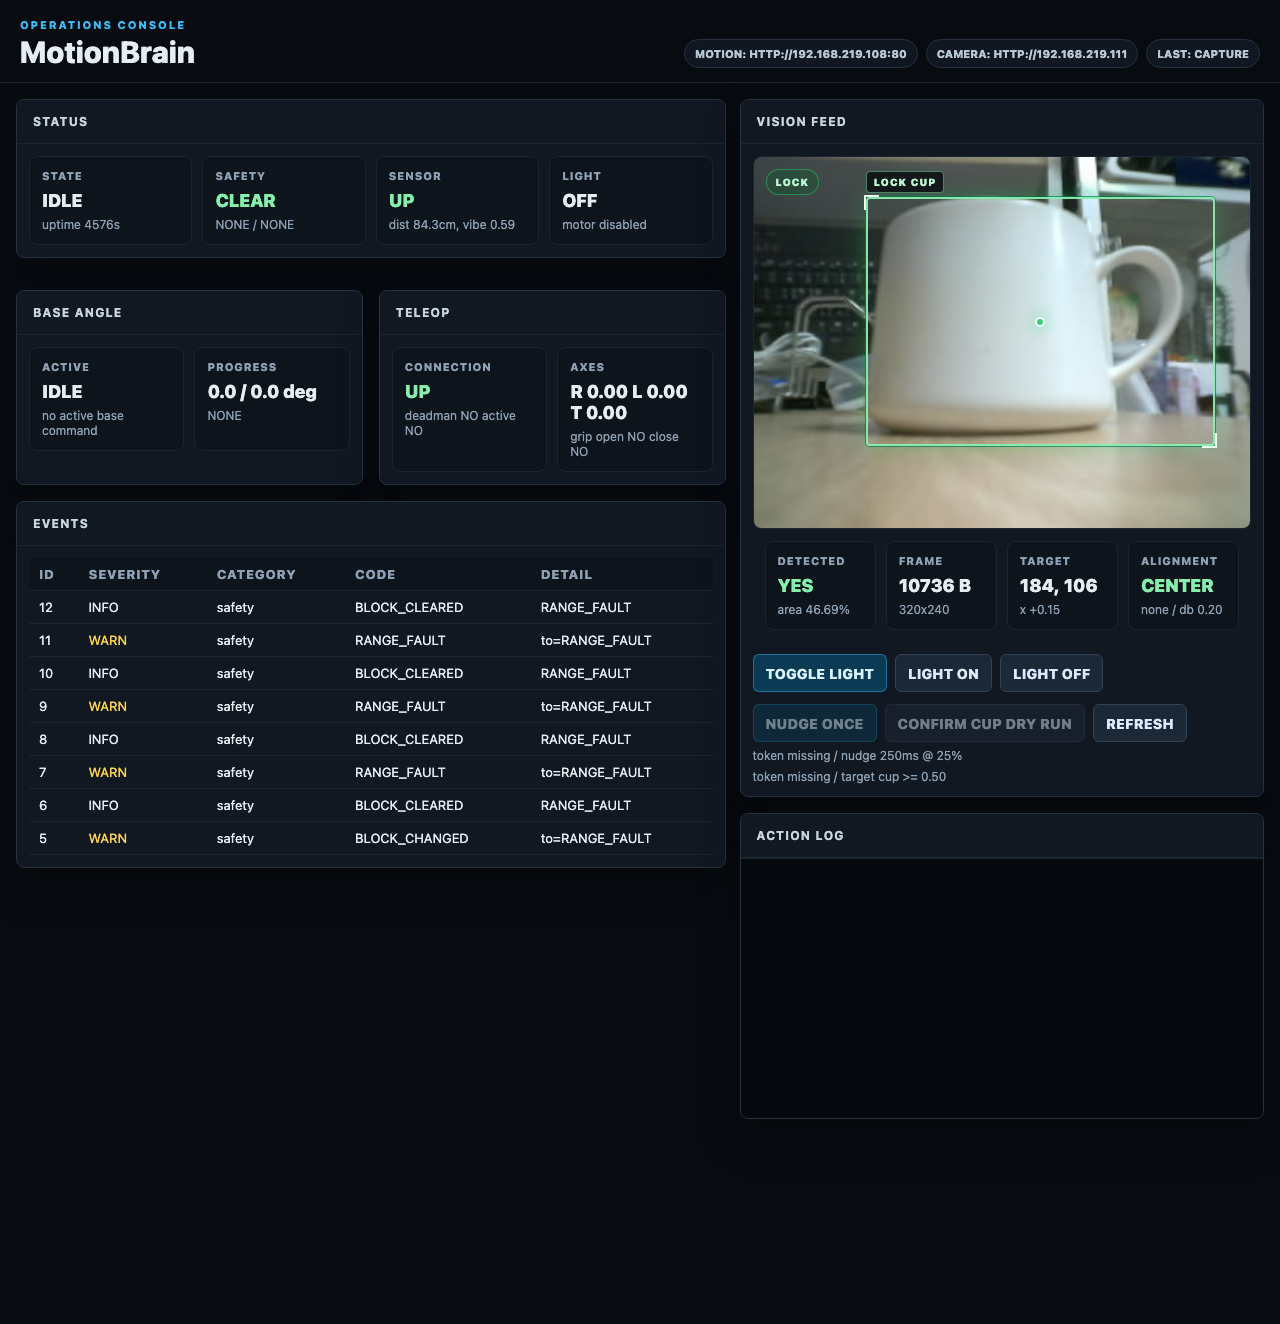
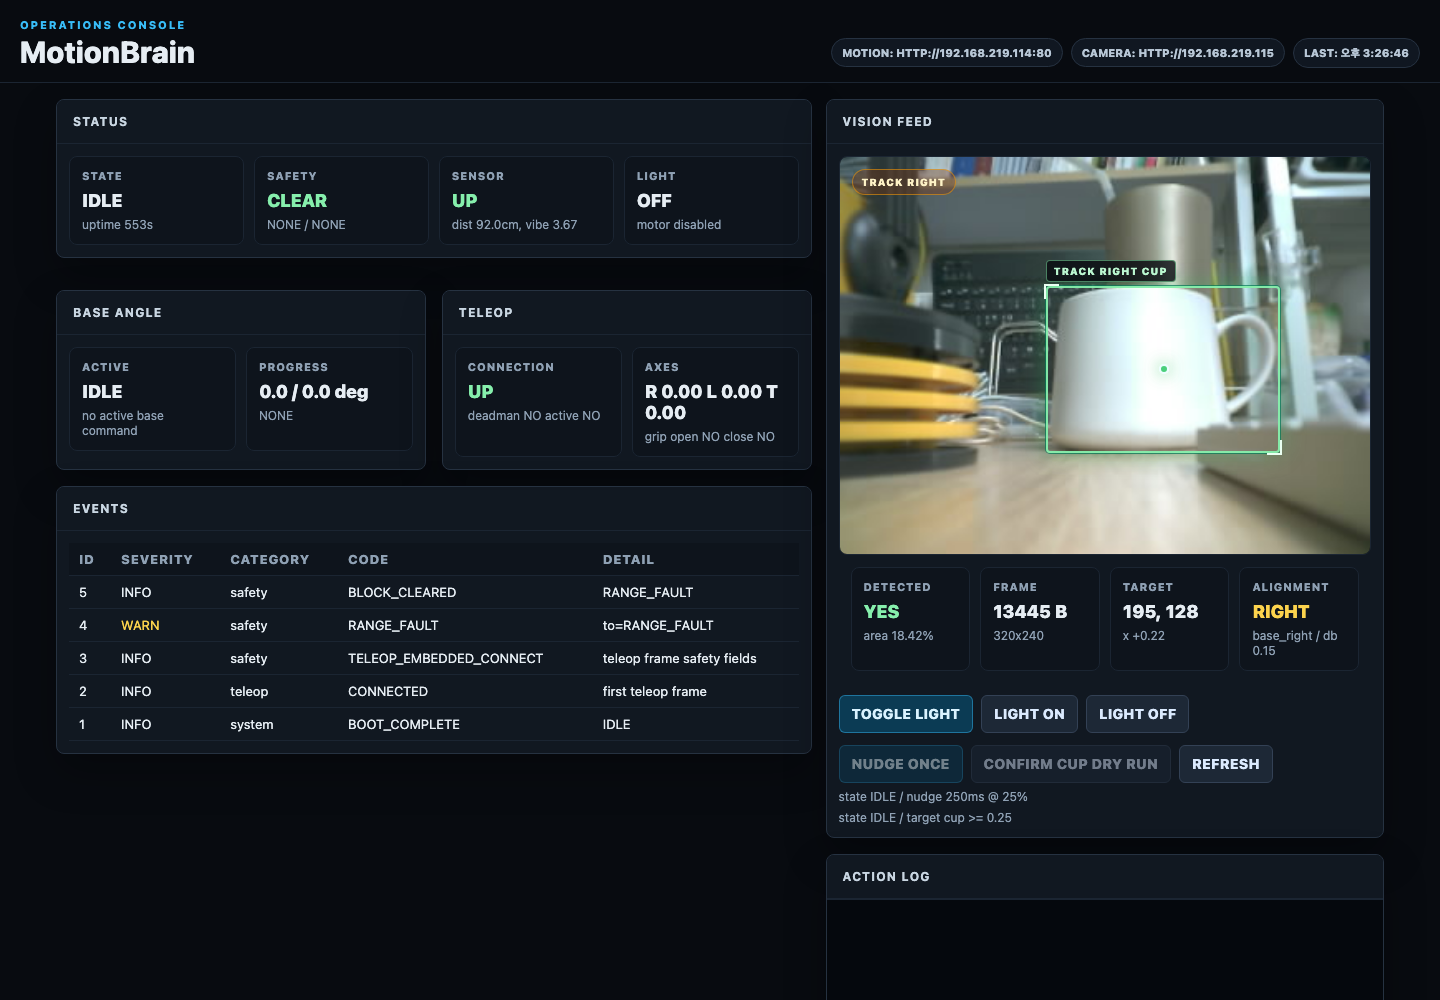
Update public demo materials

Changed region(s): [[0.0, 0.0, 1.0, 0.837], [0.1562, 0.124, 0.25, 0.341], [0.5625, 0.868, 0.6562, 0.899]]

diff --git a/PORTFOLIO.en.md b/PORTFOLIO.en.md
@@ -40,7 +40,7 @@ I designed and implemented:
 
 ## Operator Screens
 
-The final public demo video is still pending. The images below are static documentation captures from the current controller and dashboard path, showing that MotionBrain includes operator-facing and observability surfaces rather than only firmware code.
+The final public video with physical action still needs a separate opt-in capture. The images below are non-motion documentation captures from the current controller, dashboard, and RViz path, showing that MotionBrain includes operator-facing surfaces, observability, and ROS2 visualization rather than only firmware code.
 
 ![MotionBrain Control web console](docs/assets/motionbrain-control-stream.png)
 
@@ -49,6 +49,10 @@ The ESP32-hosted control console provides `STREAM` camera feedback, token-gated 
 ![MotionBrain Pi dashboard](docs/assets/motionbrain-dashboard.png)
 
 The Pi dashboard observes status, safety, teleop, events, camera frames, and detection/alignment results. Physical action buttons remain constrained by token and safety-state checks.
+
+![MotionBrain RViz RobotModel](docs/assets/motionbrain-rviz-robotmodel.png)
+
+The RViz view shows the visualization path for live ROS2 topics mirrored from the Pi dashboard, plus `RobotModel` and TF.
 
 ## System Architecture
 
@@ -111,6 +115,7 @@ The reliable demo path is `STREAM`-based manual camera feedback, Pi-hosted dashb
 - Raspberry Pi 4 + Ubuntu 24.04 + ROS2 Jazzy `colcon build/test` passed.
 - Health checks passed for `/motionbrain/status_typed`, `/camera/detection_typed`, `/joint_states`, `/motionbrain/kinematics_typed`, `/motionbrain/control_guard_typed`, and `/motionbrain/mission_state_typed`.
 - Pi perception service output was verified through ROS2 `/camera/detection_typed`.
+- Mac Docker/noVNC RViz visualized RobotModel/TF and live ROS2 topics mirrored from the Pi dashboard.
 - GitHub Actions validates PlatformIO firmware builds and ROS2 workspace build/test.
 
 ## Object Detection Status
@@ -131,12 +136,12 @@ Current honest positioning:
 - HC-SR04 is currently part of the teleop/safety layer, not a gripper-mounted range sensor
 - ESP32-CAM QVGA input limits general object detection quality
 - No general text-prompt object search
-- Public photos and videos still need final capture
+- Non-motion public screenshots/evidence are captured; SearchLight or motion video still needs separate opt-in capture
 
 ## Next Steps
 
-1. Capture demo media showing `STREAM` manual camera feedback, the Pi dashboard, and ROS2 typed topics together.
-2. Capture red-target or `cup` recognition plus safety-gated short nudge behavior.
+1. Maintain the selected non-motion screenshots/evidence in README and portfolio material.
+2. Capture red-target or `cup` recognition plus safety-gated short nudge behavior as video.
 3. Design marker- or fixed-known-object-assisted grasping as a separate plan.
 4. Improve object detection with a better camera or a validated edge-runtime model.
 5. Add range/contact sensing before attempting more autonomous grasp sequences.

diff --git a/README.md b/README.md
@@ -22,6 +22,10 @@ ESP32 내장 `MotionBrain Control`은 수동 조작, 토큰 기반 명령 경계
 
 Pi 호스트 대시보드는 제어기 상태, 텔레오퍼레이션, 이벤트, 카메라 프레임, 타겟 감지 상태를 관찰하고 안전 게이트 기반 보정 명령을 제한적으로 노출한다.
 
+![MotionBrain RViz RobotModel](docs/assets/motionbrain-rviz-robotmodel.png)
+
+Docker/noVNC RViz 화면은 Pi 대시보드 상태와 감지 결과를 읽기 전용 HTTP mirror로 받아 ROS2 topic, `RobotModel`, TF 시각화까지 이어지는 경로를 보여준다.
+
 ## 현재 상태
 
 검증 완료:
@@ -38,6 +42,7 @@ Pi 호스트 대시보드는 제어기 상태, 텔레오퍼레이션, 이벤트,
 - ROS2 타입 지정 토픽: 상태, 이벤트, 카메라 감지, 조인트 상태, 기구학, 제어 guard, mission 상태
 - Pi 인식 서비스를 통한 `/camera/detection(_typed)` 연동
 - ESP32 내장 제어 페이지의 카메라 모드 분리: 수동 조작은 `STREAM`, 인식 확인은 `TRACKED`
+- Mac Docker/noVNC RViz에서 RobotModel/TF와 Pi dashboard mirror 기반 live ROS2 topic 시각화
 - GitHub Actions 기반 PlatformIO 빌드, Python 테스트, ROS2 `colcon build/test`
 
 현재 주의점:

diff --git a/README.en.md b/README.en.md
@@ -22,6 +22,10 @@ The ESP32-hosted `MotionBrain Control` page brings manual operation, token-gated
 
 The Pi-hosted dashboard observes controller state, teleop, events, camera frames, and target detection while exposing only safety-gated corrective actions.
 
+![MotionBrain RViz RobotModel](docs/assets/motionbrain-rviz-robotmodel.png)
+
+The Docker/noVNC RViz view mirrors Pi dashboard status and detection through read-only HTTP polling into ROS2 topics, then visualizes the `RobotModel` and TF path.
+
 ## Current Status
 
 Validated:
@@ -38,6 +42,7 @@ Validated:
 - ROS2 typed topics for status, events, camera detection, joint states, kinematics, control guard, and mission state
 - Pi perception service feeding `/camera/detection(_typed)`
 - ESP32-hosted camera mode split: `STREAM` for manual operation, `TRACKED` for recognition checks
+- Mac Docker/noVNC RViz visualization for RobotModel/TF and live ROS2 topics mirrored from the Pi dashboard
 - GitHub Actions checks for PlatformIO builds, Python tests, and ROS2 `colcon build/test`
 
 Important current limits:
